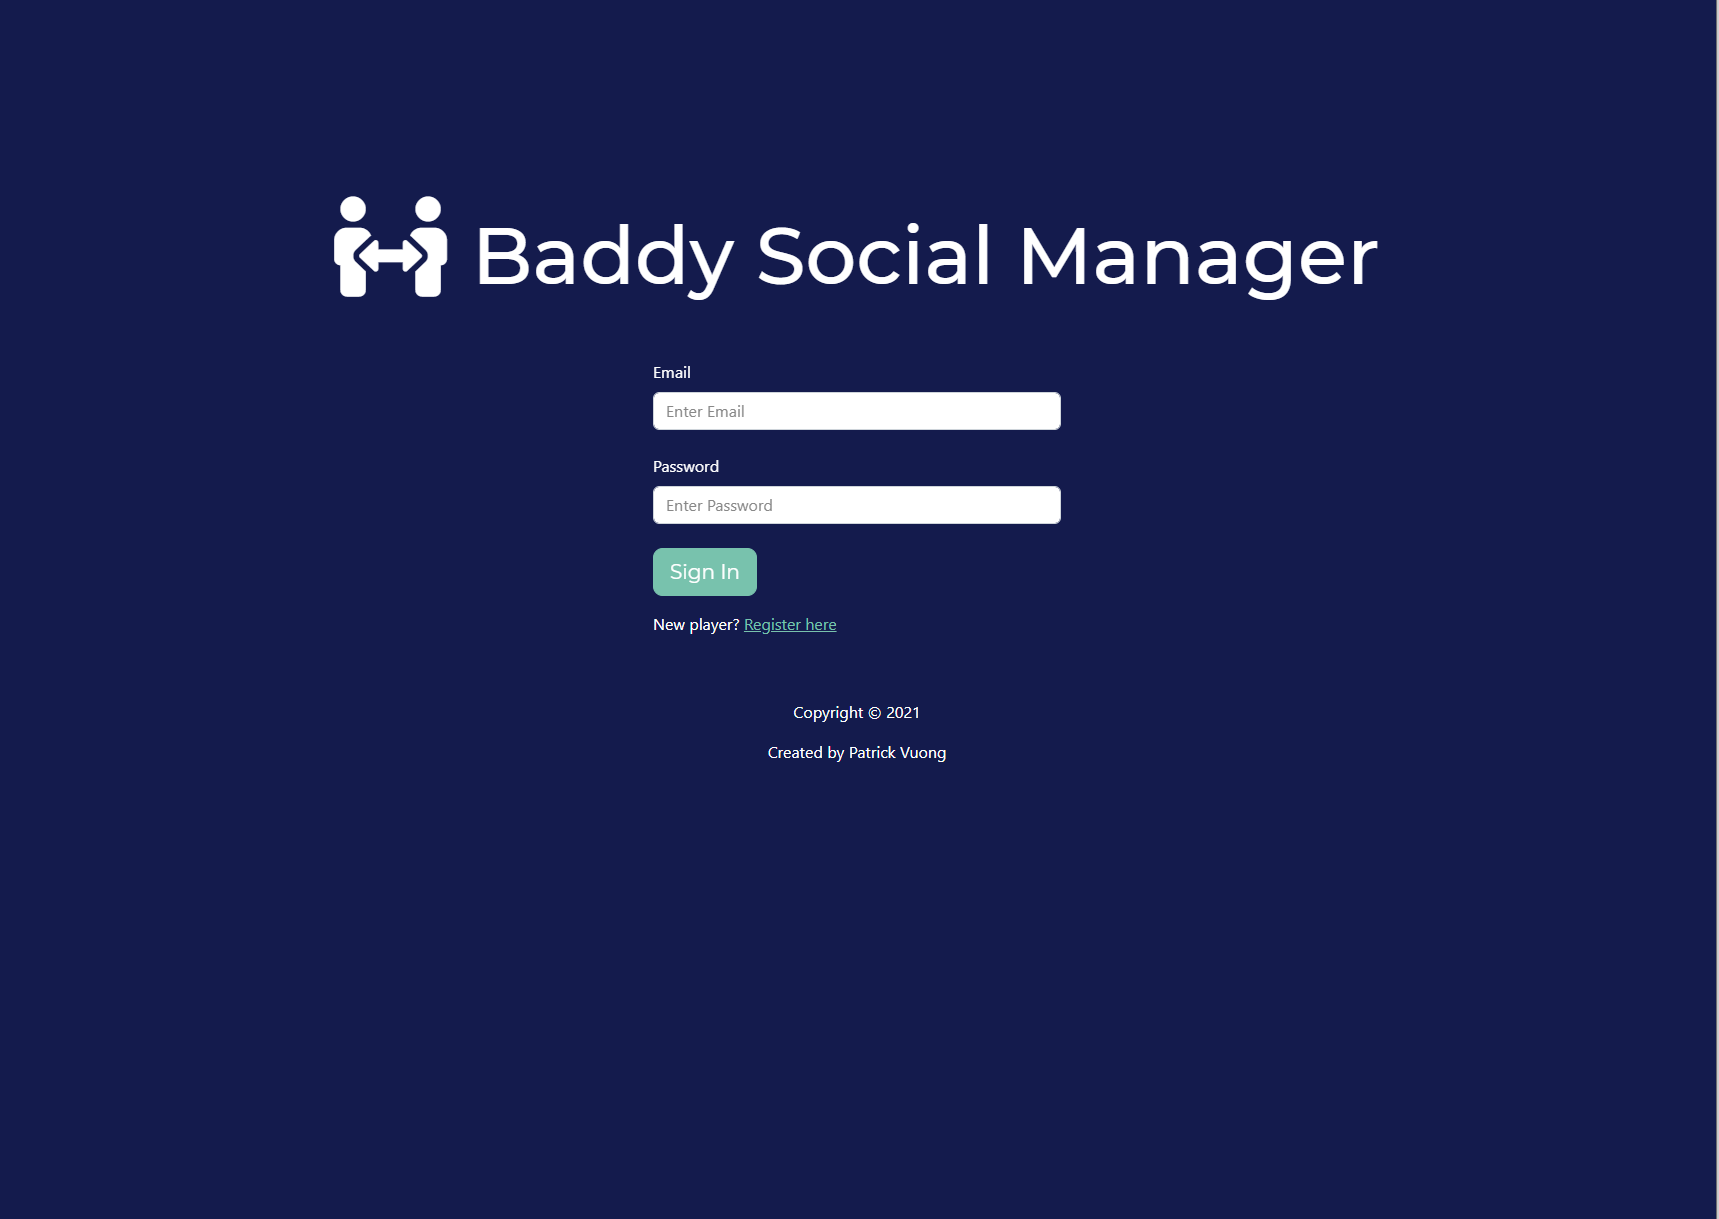
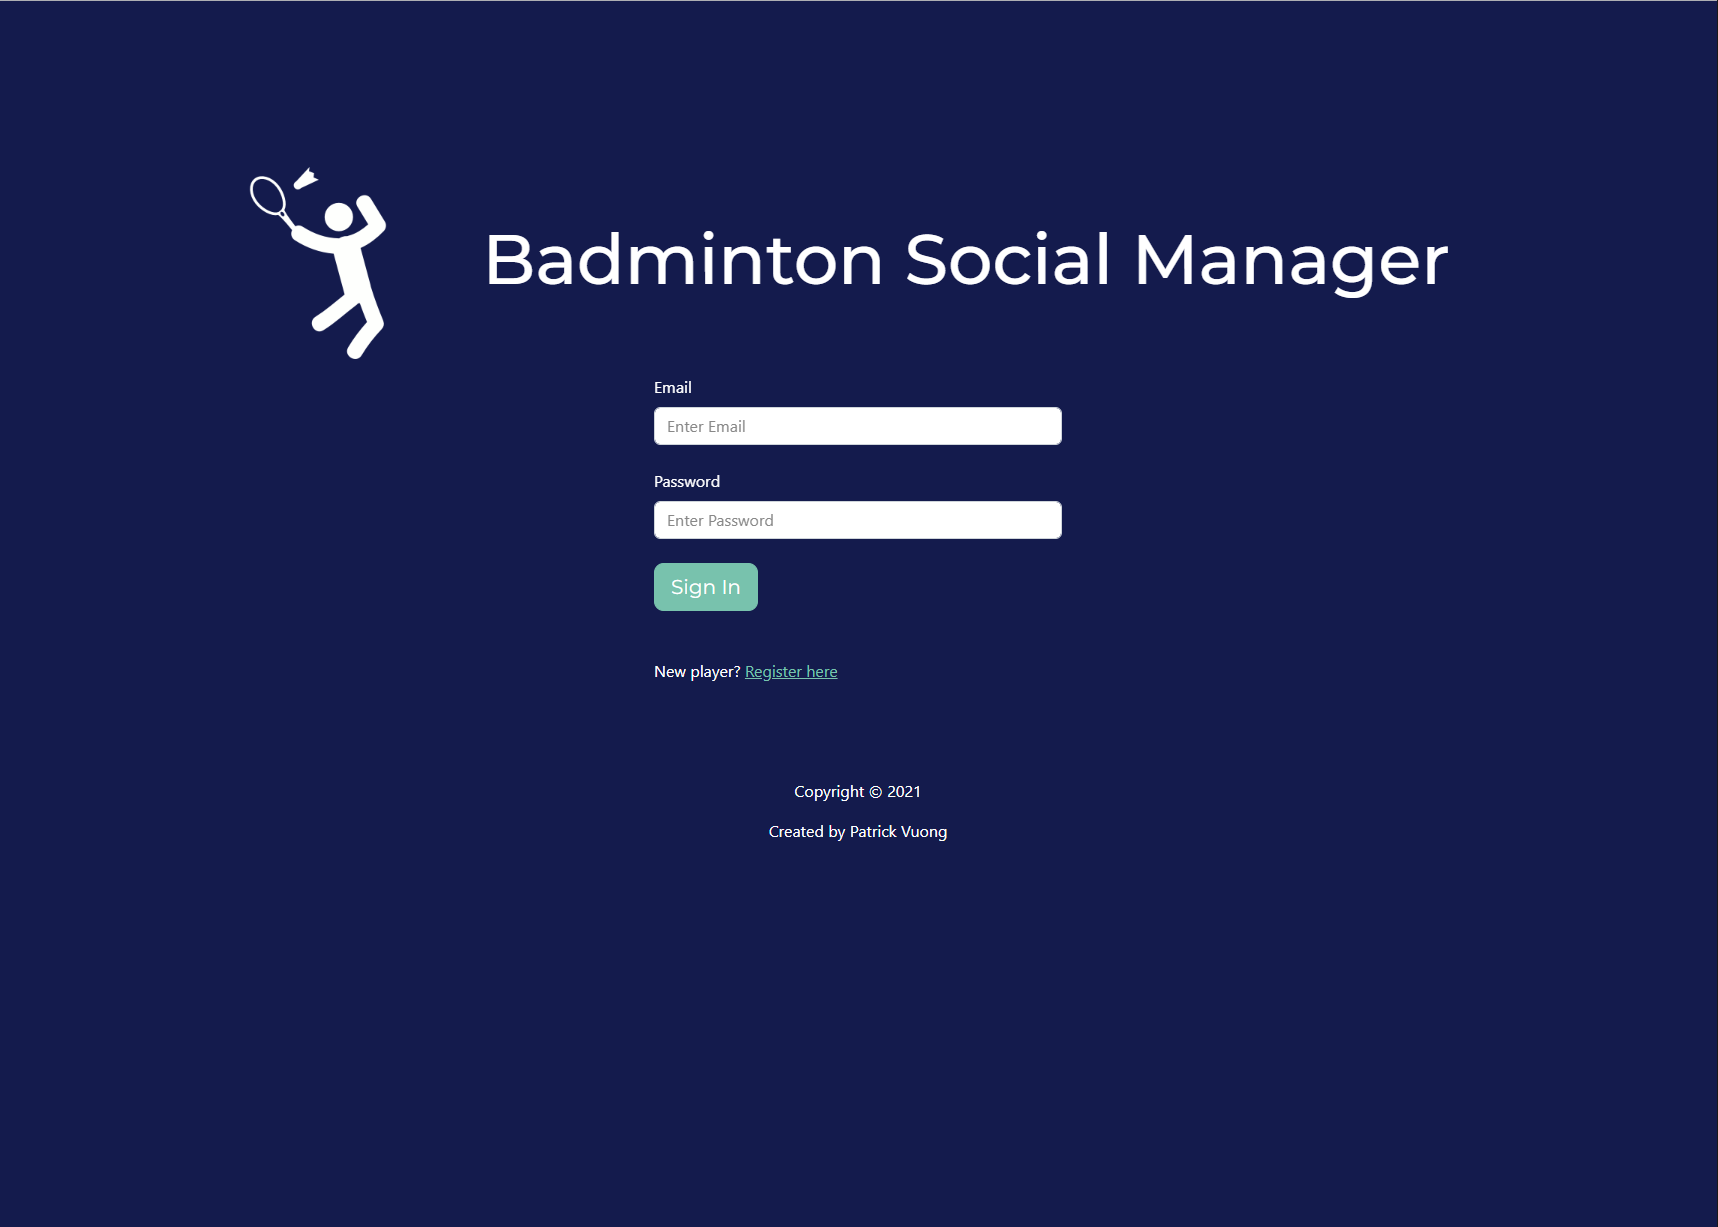
Readme Update

Changed region(s): [[0.3702, 0.2806, 0.617, 0.6858], [0.1542, 0.1247, 0.8329, 0.3117], [0.9872, 0.0, 1.0, 1.0]]

diff --git a/README.md b/README.md
@@ -1,6 +1,7 @@
-<h1>Baddy Social Manager</h1>
+<h1>Badminton Social Manager</h1>
 
-<p>Applicaton to manage social badminton sessions</p>
+<p>Applicaton to manage social badminton sessions.</p>
+<p> Tech stack includes MongoDB, Express, React and NodeJS. Hosted on AWS EC2 Instance, with database hosted on MongoDB (Migrated from AWS DocumentDB)</p>
 
 <h2>Features</h2>
 <ul>
